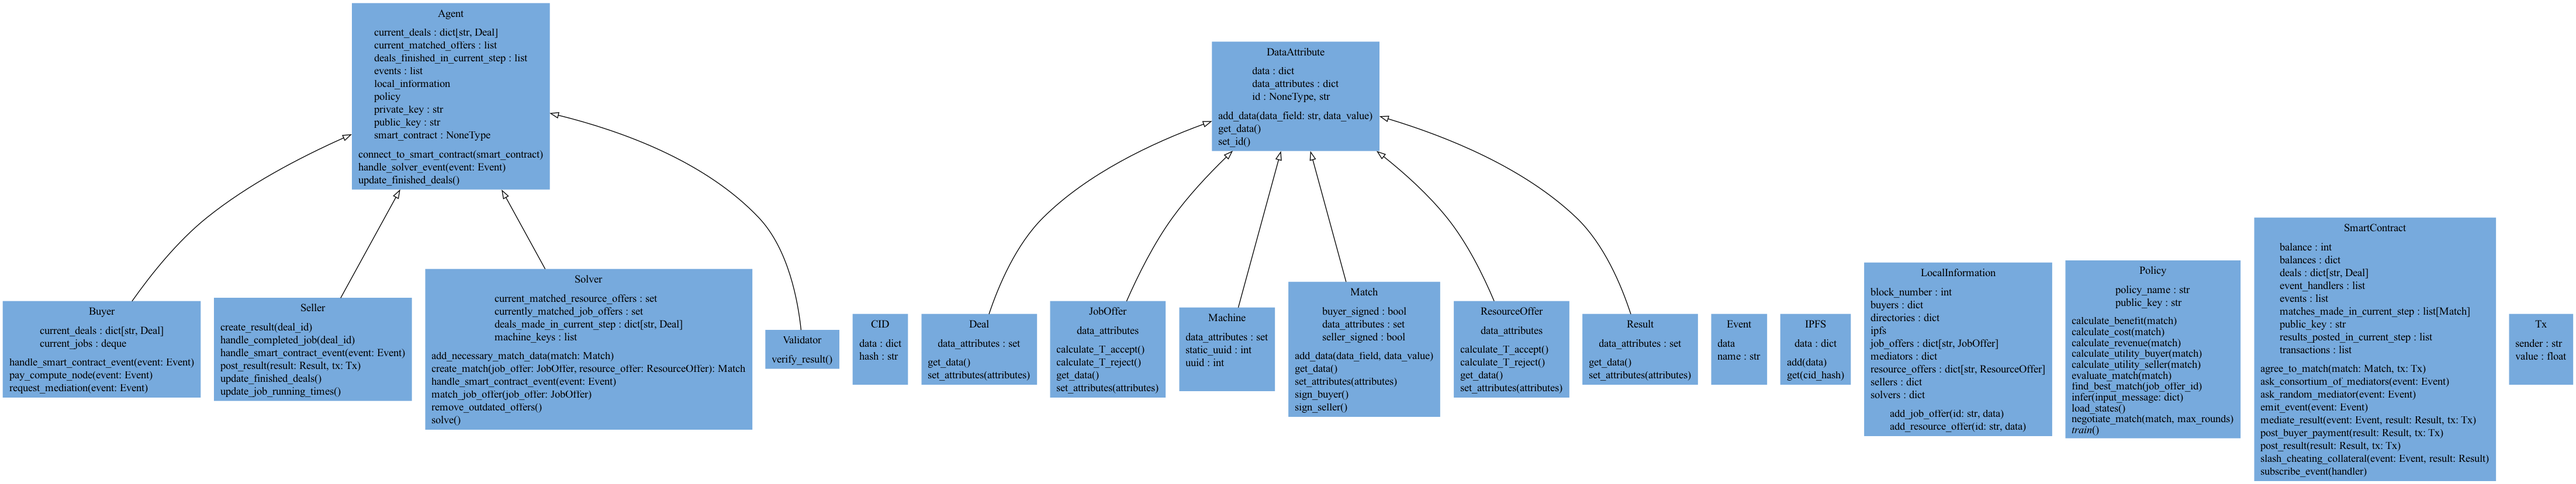
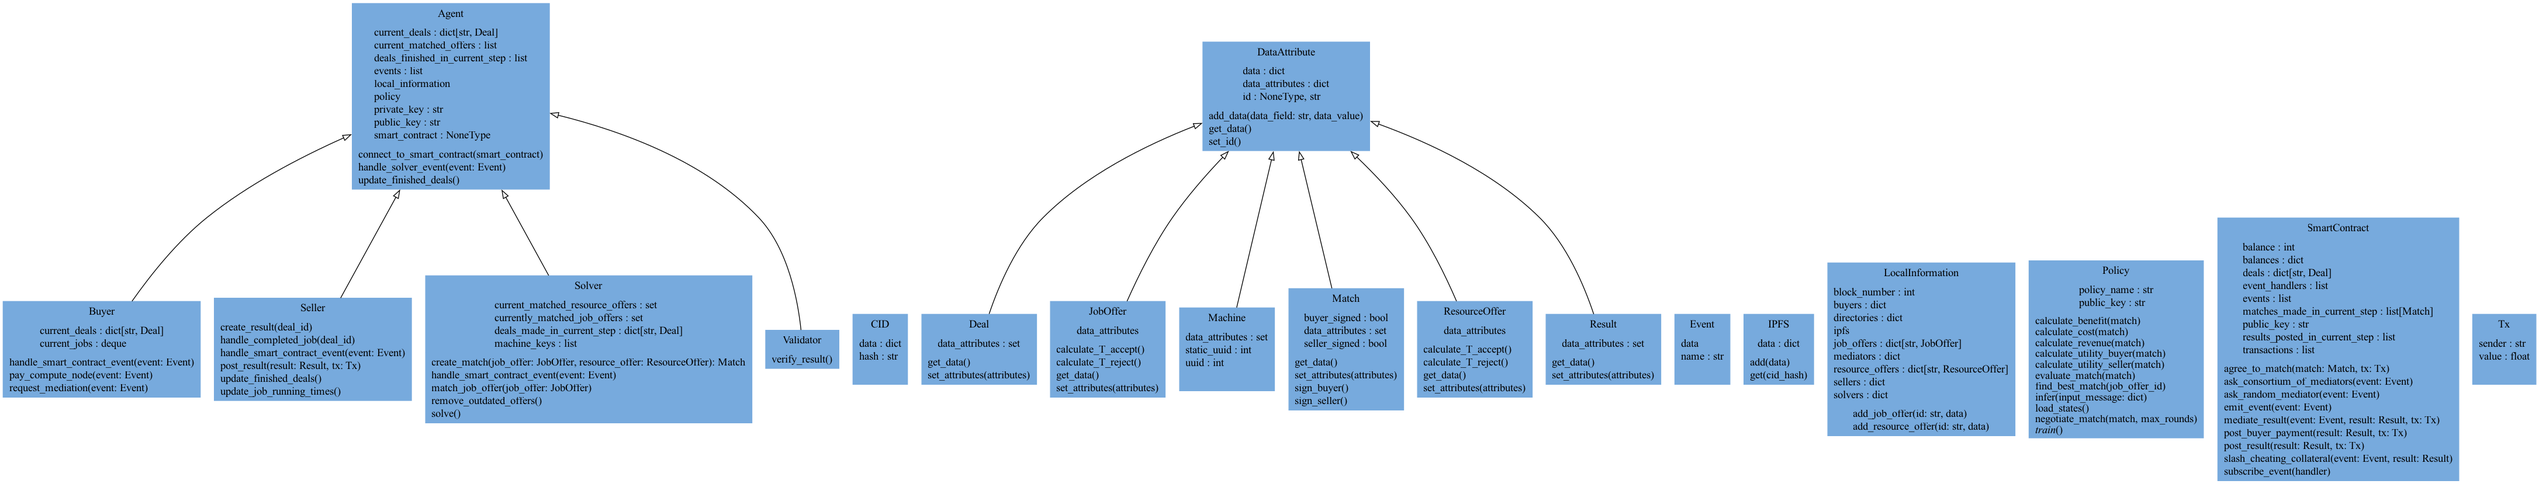
fix: remove inhereted function

diff --git a/coophive/match.py b/coophive/match.py
@@ -61,7 +61,3 @@ class Match(DataAttribute):
         """Set attributes."""
         for key, value in attributes.items():
             setattr(self, key, value)
-
-    def add_data(self, data_field, data_value):
-        """Different API to set attributes."""
-        setattr(self, data_field, data_value)
